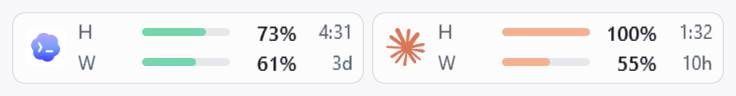
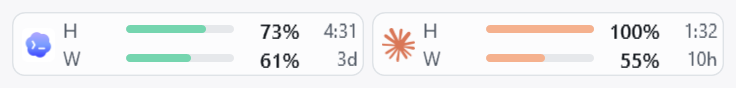
docs: show dense widgets inside the Windows taskbar

diff --git a/README.en.md b/README.en.md
@@ -38,7 +38,7 @@ Codex Business uses the supplied `spend_control.individual_limit` and Claude Ent
 
 The current source build shows a countdown beside each quota. It continues to update in manual refresh mode. Hover over a countdown to see the local reset date and time.
 
-In **Settings → Displayed services**, toggle the taskbar widget for each service. Widgets share the dashboard theme and percentage preference. Each quota shows the time until its next reset (for example, `4:31`, `10h`, or `2d`). Click a widget to open the dashboard. When space runs out on the primary taskbar, widgets move beside it.
+In **Settings → Displayed services**, toggle the taskbar widget for each service. Widgets share the dashboard theme and percentage preference. Each quota shows the time until its next reset (for example, `4:31`, `10h`, or `2d`). Click a widget to open the dashboard. Widgets appear inside the primary taskbar with each service icon to the left of its quota rows.
 
 ![Two-row Codex and Claude widgets with example quotas](docs/screenshots/taskbar-widget-light-en.png)
 
